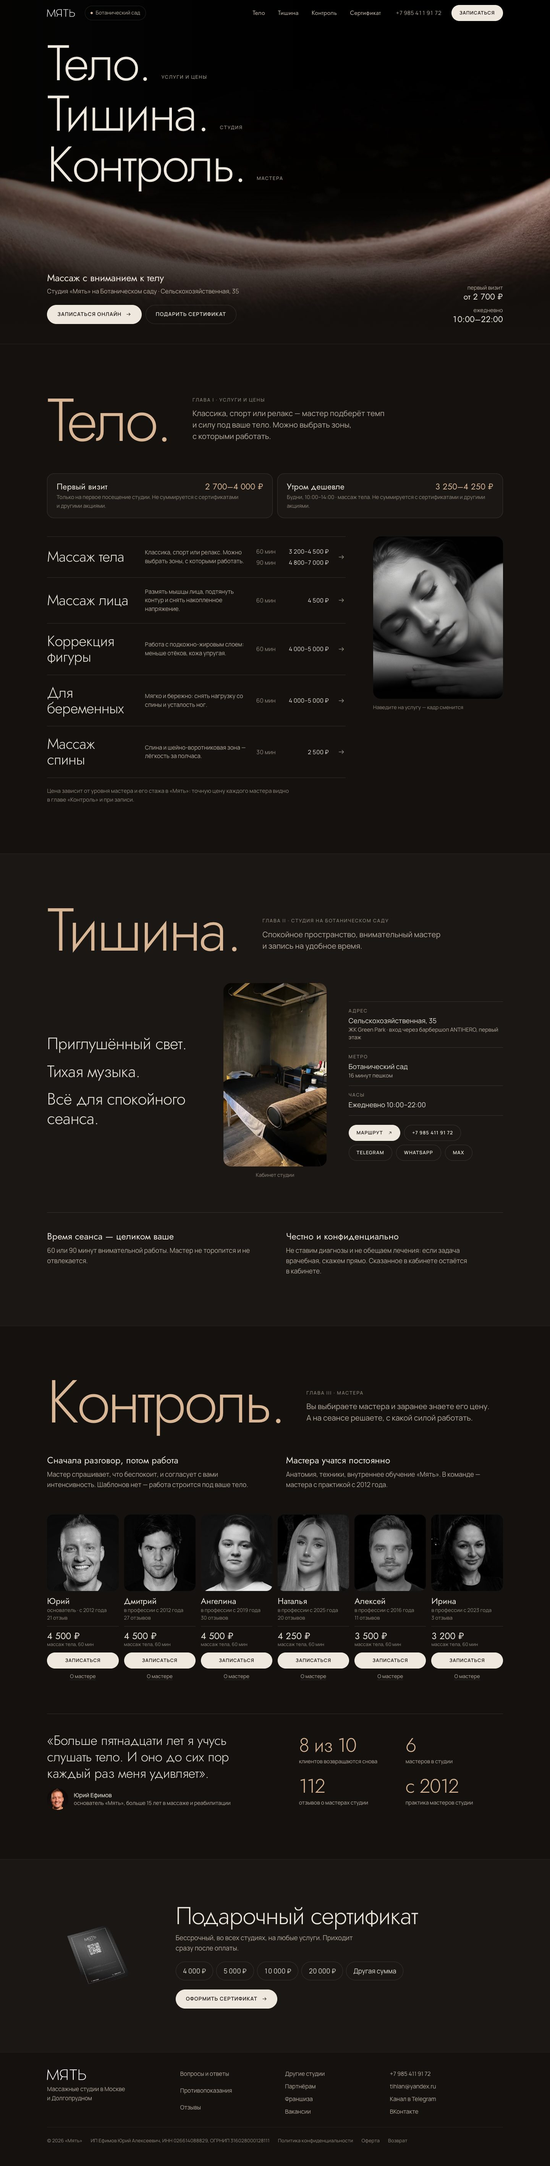
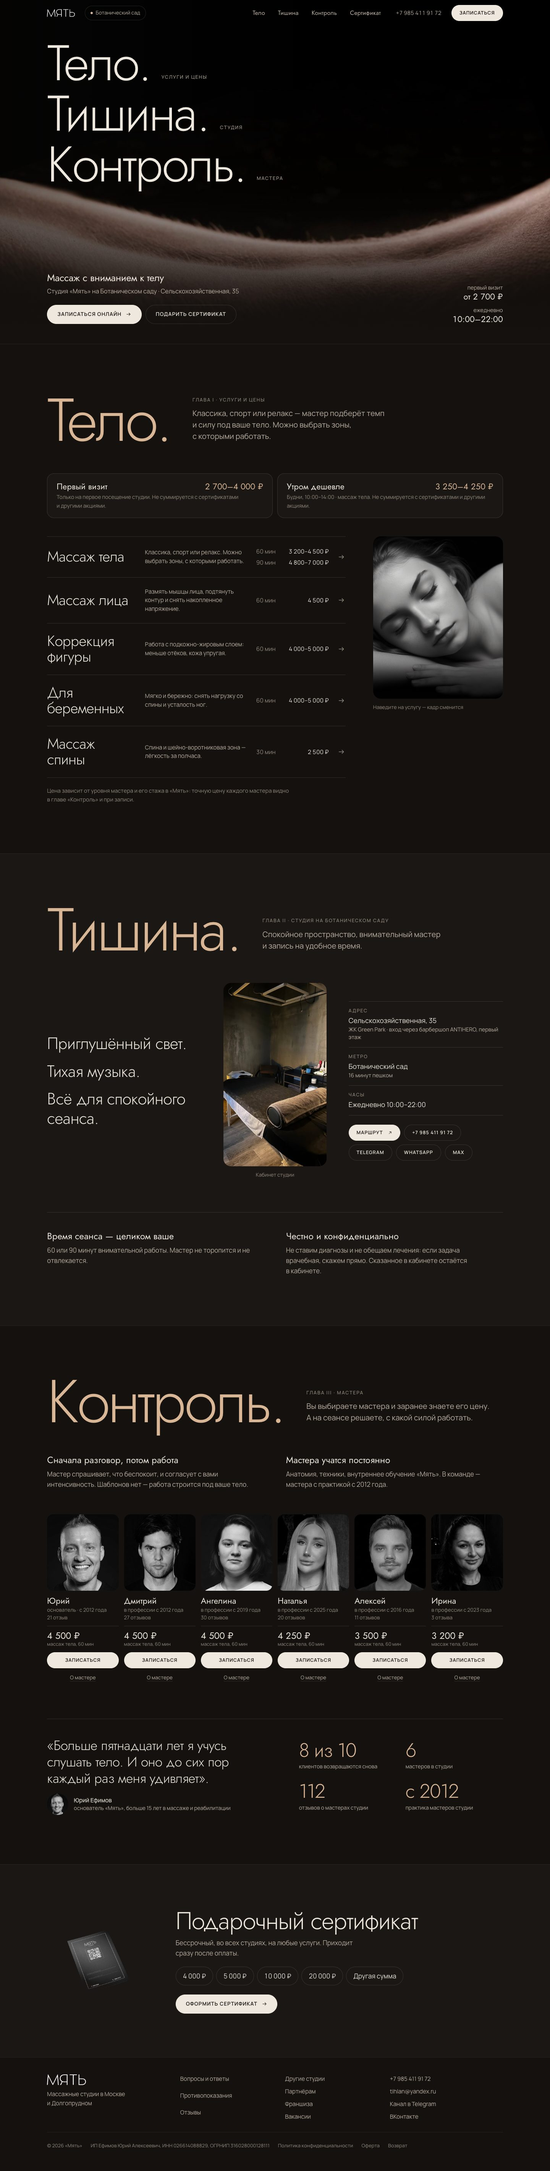
Итог: разбор текущего сайта, страница со сравнением концептов, README

diff --git a/index.html b/index.html
@@ -1,0 +1,133 @@
+<!doctype html>
+<html lang="ru">
+<head>
+<meta charset="utf-8">
+<meta name="viewport" content="width=device-width, initial-scale=1">
+<title>Мять · Ботанический сад — разбор и три концепта</title>
+<meta name="robots" content="noindex">
+<style>
+@font-face{font-family:"Onest";src:url(fonts/onest-latin.woff2) format("woff2");font-weight:100 900;font-display:swap;unicode-range:U+0000-00FF,U+2000-206F,U+2212}
+@font-face{font-family:"Onest";src:url(fonts/onest-latin-ext.woff2) format("woff2");font-weight:100 900;font-display:swap;unicode-range:U+0100-02BA,U+20A0-20AB,U+20AD-20C0}
+@font-face{font-family:"Onest";src:url(fonts/onest-cyrillic.woff2) format("woff2");font-weight:100 900;font-display:swap;unicode-range:U+0301,U+0400-045F,U+0490-0491,U+2116}
+:root{--bg:#F5F4F0;--card:#FDFDFB;--ink:#17191C;--ink-2:#50555B;--line:rgba(23,25,28,.14);--acc:#B4410F}
+*{box-sizing:border-box}
+body{margin:0;background:var(--bg);color:var(--ink);font:400 17px/1.6 "Onest",system-ui,sans-serif;-webkit-font-smoothing:antialiased}
+.wrap{max-width:1180px;margin:0 auto;padding:0 clamp(18px,4vw,48px)}
+header{padding:clamp(36px,6vw,80px) 0 clamp(20px,3vw,36px)}
+.k{font:500 12.5px/1.3 "Onest";letter-spacing:.1em;text-transform:uppercase;color:var(--ink-2)}
+h1{margin:12px 0 16px;font-weight:400;font-size:clamp(2.2rem,5.4vw,4.4rem);line-height:1;letter-spacing:-.04em}
+h2{margin:0 0 18px;font-weight:400;font-size:clamp(1.7rem,3.4vw,2.6rem);line-height:1.05;letter-spacing:-.03em}
+h3{margin:0 0 6px;font-weight:500;font-size:19px;line-height:1.3}
+p{margin:0 0 14px}.lead{max-width:44em;color:var(--ink-2);font-size:clamp(17px,1.5vw,19px)}
+a{color:inherit}
+section{padding:clamp(32px,5vw,64px) 0;border-top:1px solid var(--line)}
+img{display:block;max-width:100%;border-radius:10px;border:1px solid var(--line)}
+.issues{display:grid;grid-template-columns:repeat(2,minmax(0,1fr));gap:26px 44px;margin:0;padding:0;list-style:none;counter-reset:i}
+.issues li{counter-increment:i;padding-top:14px;border-top:1px solid var(--line)}
+.issues li::before{content:counter(i,decimal-leading-zero);display:block;margin-bottom:6px;font-weight:500;font-size:13px;color:var(--acc)}
+.issues p{margin:0;color:var(--ink-2);font-size:15.5px;line-height:1.55}
+.ev{display:grid;grid-template-columns:minmax(0,1.5fr) minmax(0,1.5fr) minmax(0,.62fr) minmax(0,.62fr);gap:16px;align-items:start;margin-top:32px}
+figure{margin:0}figcaption{margin-top:8px;font-size:13.5px;line-height:1.45;color:var(--ink-2)}
+.c{display:grid;grid-template-columns:minmax(0,.9fr) minmax(0,1.5fr) minmax(0,.42fr);gap:clamp(18px,3vw,40px);align-items:start}
+.c+.c{margin-top:clamp(36px,5vw,64px);padding-top:clamp(36px,5vw,64px);border-top:1px solid var(--line)}
+.c .n{font-weight:500;font-size:13px;letter-spacing:.1em;text-transform:uppercase;color:var(--acc)}
+.c h2{margin:8px 0 12px}
+.c p{color:var(--ink-2);font-size:16px}
+.c p b{color:var(--ink);font-weight:500}
+.btn{display:inline-flex;align-items:center;gap:8px;min-height:46px;padding:0 20px;border-radius:8px;background:var(--ink);color:var(--bg);text-decoration:none;font-weight:500;font-size:15.5px}
+.btn:hover{background:var(--acc)}
+.more{display:block;margin-top:12px;font-size:14px;color:var(--ink-2)}
+.rec{background:var(--card);border:1px solid var(--line);border-radius:14px;padding:clamp(20px,3vw,36px)}
+.rec p{max-width:46em}
+ul.plain{margin:0 0 14px;padding-left:1.1em;color:var(--ink-2)}ul.plain li{margin-bottom:6px}
+footer{padding:28px 0 56px;font-size:14px;color:var(--ink-2)}
+@media (max-width:860px){.issues{grid-template-columns:1fr}.ev{grid-template-columns:1fr 1fr}.c{grid-template-columns:1fr 1fr}.c>div{grid-column:1/-1}}
+</style>
+</head>
+<body>
+<header><div class="wrap">
+  <div class="k">myat.studio/?studio=botsad · разбор по принципам Awwwards · 10 ноября 2026</div>
+  <h1>«Мять», Ботанический сад:<br>разбор и три концепта</h1>
+  <p class="lead">Страница студии массажа в ЖК Green Park. Задача страницы одна: человек должен понять, какой массаж ему нужен, к кому идти и сколько это стоит, — и записаться. Запись уходит во внешний виджет YCLIENTS, поэтому всё решается до клика.</p>
+</div></header>
+
+<section><div class="wrap">
+  <h2>Что не так сейчас</h2>
+  <ol class="issues">
+    <li><h3>Цена разорвана на две части</h3><p>В услугах стоят вилки («3 200–4 500 ₽»), а точные цены мастеров — двумя экранами ниже. Причина вилки объяснена мелкой сноской. Главный вопрос посетителя приходится собирать самому.</p></li>
+    <li><h3>Первый экран почти пустой</h3><p>На телефоне верхняя половина экрана — чёрное поле. Заголовок «Массаж с вниманием к телу» подошёл бы любой студии; собственный слоган «Тело. Тишина. Контроль.» спрятан в подвале серым мелким шрифтом.</p></li>
+    <li><h3>Плоская типографика</h3><p>Один шрифт, одно начертание (400) от заголовка до подписи. На телефоне шкала 36 → 28 → 22 → 18 px, а 72 из 78 текстовых блоков набраны 15 px и мельче, половина — серым.</p></li>
+    <li><h3>Один ритм на всю страницу</h3><p>Семь секций подряд устроены одинаково: заголовок слева, сетка карточек, линия. Пять услуг встают как 3 + 2, шесть мастеров как 4 + 2 — с пустыми «хвостами». Чистый чёрный (#000) без единой смены фона на 5 500 px.</p></li>
+    <li><h3>Фото не про эту студию</h3><p>Услуги иллюстрированы глянцевыми лицами моделей; фотографии самой студии на странице студии нет. Картинки услуг 1680 px грузятся в слот 370 px. Портреты мастеров сняты по-разному и обрезаны под высокий формат.</p></li>
+    <li><h3>Телефон: длинно и мелко</h3><p>Страница — 9 100 px, около 11 экранов. Прилипающей кнопки записи нет (в шапке только трубка и меню). 41 ссылка и кнопка ниже 40 px, «Записаться» у мастера — строка высотой 18 px.</p></li>
+    <li><h3>Не хватает сведений, чтобы дойти</h3><p>«Вход через барбершоп ANTIHERO, первый этаж» и «16 минут от метро» написаны только на странице «Студии». В контактах нет ни карты, ни пометки «сейчас открыто».</p></li>
+    <li><h3>Доверие названо, но не показано</h3><p>«112 отзывов» — цифра без единого отзыва на сайте: страница отзывов ведёт наружу. Описания мастеров (образование, подход) тоже остались на отдельной странице.</p></li>
+  </ol>
+  <p style="margin-top:24px;color:var(--ink-2);font-size:15.5px">Что хорошо и стоит сохранить: скорость (≈1,7 МБ, загрузка около 2 с), честный тон текстов, точные цены мастеров, выбор студии, хороший кадр спины на первом экране.</p>
+  <div class="ev">
+    <figure><a href="screenshots/current/ev-services.jpg"><img src="screenshots/current/ev-services.jpg" alt="" loading="lazy"></a><figcaption>Услуги: вилки цен и модельные фото</figcaption></figure>
+    <figure><a href="screenshots/current/ev-masters.jpg"><img src="screenshots/current/ev-masters.jpg" alt="" loading="lazy"></a><figcaption>Мастера: 4 + 2, мелкие ссылки записи</figcaption></figure>
+    <figure><a href="screenshots/current/mobile-top.jpg"><img src="screenshots/current/mobile-top.jpg" alt="" loading="lazy"></a><figcaption>Телефон, первый экран</figcaption></figure>
+    <figure><a href="screenshots/current/ev-mobile-services.jpg"><img src="screenshots/current/ev-mobile-services.jpg" alt="" loading="lazy"></a><figcaption>Телефон, услуги</figcaption></figure>
+  </div>
+  <p class="more">Целиком: <a href="screenshots/current/desktop-full.jpg">десктоп</a> · <a href="screenshots/current/mobile-full.jpg">телефон</a></p>
+</div></section>
+
+<section><div class="wrap">
+  <article class="c">
+    <div>
+      <div class="n">Концепт 1</div>
+      <h2>Сначала разговор</h2>
+      <p><b>Идея.</b> Первый принцип студии — «сначала разговор, потом работа» — становится интерфейсом. Страница начинается с вопроса мастера «Что беспокоит?»; ответ сразу показывает подходящий массаж, длительность и цену. Ниже — мастера с точной ценой каждого, без вилок.</p>
+      <p><b>Кому подойдёт.</b> Новым клиентам, которые не знают, какой массаж выбрать. Лучше всего решает главную проблему страницы.</p>
+      <a class="btn" href="concepts/1-razgovor.html">Открыть прототип →</a>
+      <span class="more">Целиком: <a href="screenshots/concept-1/desktop-full.jpg">десктоп</a> · <a href="screenshots/concept-1/mobile-full.jpg">телефон</a></span>
+    </div>
+    <a href="concepts/1-razgovor.html"><img src="screenshots/concept-1/desktop-top.jpg" alt="Концепт 1, десктоп" loading="lazy"></a>
+    <a href="concepts/1-razgovor.html"><img src="screenshots/concept-1/mobile-top.jpg" alt="Концепт 1, телефон" loading="lazy"></a>
+  </article>
+  <article class="c">
+    <div>
+      <div class="n">Концепт 2</div>
+      <h2>Тело. Тишина. Контроль.</h2>
+      <p><b>Идея.</b> Слоган из подвала становится каркасом: три слова — три главы и они же навигация. «Тело» — услуги списком, «Тишина» — студия и как дойти, «Контроль» — выбор мастера и его цена. Тёмная, но тёплая: цвет взят из кадра на первом экране.</p>
+      <p><b>Кому подойдёт.</b> Если важно сохранить нынешний тёмный образ бренда и просто сделать его сильнее. Самый «имиджевый» вариант.</p>
+      <a class="btn" href="concepts/2-tri-slova.html">Открыть прототип →</a>
+      <span class="more">Целиком: <a href="screenshots/concept-2/desktop-full.jpg">десктоп</a> · <a href="screenshots/concept-2/mobile-full.jpg">телефон</a></span>
+    </div>
+    <a href="concepts/2-tri-slova.html"><img src="screenshots/concept-2/desktop-top.jpg" alt="Концепт 2, десктоп" loading="lazy"></a>
+    <a href="concepts/2-tri-slova.html"><img src="screenshots/concept-2/mobile-top.jpg" alt="Концепт 2, телефон" loading="lazy"></a>
+  </article>
+  <article class="c">
+    <div>
+      <div class="n">Концепт 3</div>
+      <h2>По минутам</h2>
+      <p><b>Идея.</b> Студия продаёт минуты внимания, поэтому всё измерено временем. На первом экране — шкала дня 10:00–22:00 с живым «сейчас», окном «утром дешевле» и сеансом, который можно подвигать. Услуги — прейскурант с полосками длительности, мастера — список с сортировкой по опыту, цене и отзывам.</p>
+      <p><b>Кому подойдёт.</b> Постоянным клиентам и тем, кто сравнивает цены: кратчайший путь к «сколько, когда, к кому».</p>
+      <a class="btn" href="concepts/3-minuty.html">Открыть прототип →</a>
+      <span class="more">Целиком: <a href="screenshots/concept-3/desktop-full.jpg">десктоп</a> · <a href="screenshots/concept-3/mobile-full.jpg">телефон</a></span>
+    </div>
+    <a href="concepts/3-minuty.html"><img src="screenshots/concept-3/desktop-top.jpg" alt="Концепт 3, десктоп" loading="lazy"></a>
+    <a href="concepts/3-minuty.html"><img src="screenshots/concept-3/mobile-top.jpg" alt="Концепт 3, телефон" loading="lazy"></a>
+  </article>
+</div></section>
+
+<section><div class="wrap">
+  <div class="rec">
+    <div class="k">Рекомендация</div>
+    <h2 style="margin-top:10px">Брать концепт 1 и добавить в него две находки из третьего</h2>
+    <p>«Сначала разговор» — единственный вариант, где идея взята из самого продукта и одновременно чинит главный сбой: человек за один экран получает услугу и цену, а в следующем — мастера с точной суммой. Он светлый и тёплый, заметно отличается от типовых тёмных сайтов массажа.</p>
+    <p>Из концепта 3 стоит перенести сортировку мастеров (опытнее / дешевле / больше отзывов) и пометку «сейчас открыто». Если владельцу принципиален тёмный образ — тогда концепт 2, он ближе всего к нынешнему сайту.</p>
+    <h3 style="margin-top:22px">Что нужно от студии, чтобы довести любой вариант</h3>
+    <ul class="plain">
+      <li>Фотографии самой студии: вход, зона ожидания, кабинет. Сейчас на сайте есть только вертикальные кадры с телефона 720×1280 — в прототипах они показаны маленькими, крупнее не выдержат.</li>
+      <li>Два-три настоящих отзыва с разрешением на публикацию — в прототипах отзывов нет, выдумывать их нельзя.</li>
+      <li>Точные цены мастеров на 90 минут и на остальные услуги — на сайте они есть только вилкой.</li>
+      <li>Ссылки YCLIENTS на каждую услугу: известна только одна (массаж тела), остальные кнопки пока ведут в общее меню записи.</li>
+    </ul>
+  </div>
+</div></section>
+
+<footer><div class="wrap">Прототипы — статические HTML, по одному файлу на концепт. Шрифты лежат в <code>fonts/</code>, трекеров нет. Логотип и фотографии подгружаются с myat.studio, поэтому нужен интернет. Кнопки записи ведут в настоящий YCLIENTS студии.</div></footer>
+</body>
+</html>

diff --git a/concepts/2-tri-slova.html b/concepts/2-tri-slova.html
@@ -132,20 +132,19 @@ a:hover>.arr{transform:translateX(5px)}
 .vows--top{margin:0 0 clamp(36px,5vw,64px);padding-top:0;border-top:0}
 .masters{display:grid;grid-template-columns:repeat(6,minmax(0,1fr));gap:14px}
 .m{display:flex;flex-direction:column}
-.m img{width:100%;aspect-ratio:1;object-fit:cover;border-radius:16px;background:var(--bg-2);filter:grayscale(1);transition:filter .6s}
-.m:hover img{filter:none}
+.m img{width:100%;aspect-ratio:1;object-fit:cover;border-radius:16px;background:var(--bg-2);filter:grayscale(1)}
 .m h3{margin:14px 0 2px;font:400 22px/1.15 var(--disp)}
 .m p{margin:0;font-size:13.5px;line-height:1.45;color:var(--tx-3)}
 .m .pr{margin:12px 0 12px;padding-top:12px;border-top:1px solid var(--line);font:400 24px/1.1 var(--disp);font-variant-numeric:tabular-nums;color:var(--tx)}
 .m .pr small{display:block;font:400 12.5px/1.4 var(--sans);color:var(--tx-3)}
 .m .btn{margin-top:auto;width:100%;padding:0 10px}
-.m .more{margin-top:10px;text-align:center;font-size:13.5px;color:var(--tx-2);text-decoration:underline;text-decoration-color:var(--line);text-underline-offset:4px}
+.m .more{margin-top:4px;padding:10px 0;text-align:center;font-size:13.5px;color:var(--tx-2);text-decoration:underline;text-decoration-color:var(--line);text-underline-offset:4px}
 .m .more:hover{color:var(--tx);text-decoration-color:var(--tx)}
 .proof{display:grid;grid-template-columns:minmax(0,1.1fr) minmax(0,1fr);gap:clamp(24px,5vw,80px);align-items:center;margin-top:clamp(40px,6vw,88px);padding-top:clamp(28px,4vw,48px);border-top:1px solid var(--line)}
 .quote{margin:0}
 .quote p{margin:0 0 18px;font:300 clamp(1.5rem,2.5vw,2.2rem)/1.22 var(--disp);letter-spacing:-.015em}
 .quote footer{display:flex;gap:14px;align-items:center;font-size:14px;color:var(--tx-2);line-height:1.4}
-.quote img{width:56px;height:56px;border-radius:50%;object-fit:cover}
+.quote img{width:56px;height:56px;border-radius:50%;object-fit:cover;filter:grayscale(1)}
 .quote b{display:block;color:var(--tx);font-weight:500;font-size:15px}
 .nums{display:grid;grid-template-columns:1fr 1fr;gap:28px 24px}
 .nums b{display:block;font:300 clamp(2.2rem,3.6vw,3.2rem)/1 var(--disp);letter-spacing:-.03em;color:var(--skin);white-space:nowrap}
@@ -197,7 +196,6 @@ a:hover>.arr{transform:translateX(5px)}
   .room{width:min(210px,56vw);margin-inline:auto}
   .vows,.proof{grid-template-columns:minmax(0,1fr)}
   .masters{grid-template-columns:repeat(2,minmax(0,1fr));gap:30px 12px}
-  .m img{filter:none}
   .gift-g{grid-template-columns:minmax(0,1fr)}.gift-g img{width:180px}
   .bar{display:flex;gap:10px;position:fixed;left:0;right:0;bottom:0;z-index:40;padding:12px var(--gut) calc(12px + env(safe-area-inset-bottom));background:rgba(20,17,15,.9);backdrop-filter:blur(14px);-webkit-backdrop-filter:blur(14px);border-top:1px solid var(--line)}
   .bar{transform:translateY(110%);transition:transform .5s var(--ease)}.bar.show{transform:none}

diff --git a/concepts/1-razgovor.html b/concepts/1-razgovor.html
@@ -108,7 +108,7 @@ section{padding:clamp(56px,8vw,120px) 0}
 .masters{display:grid;grid-template-columns:repeat(3,minmax(0,1fr));gap:0;border-top:1px solid var(--line)}
 .m{display:grid;grid-template-columns:96px minmax(0,1fr);grid-template-rows:1fr auto;gap:20px;padding:28px 28px 28px 0;border-bottom:1px solid var(--line)}
 .m:not(:nth-child(3n+1)){padding-left:28px;border-left:1px solid var(--line)}
-.m img{width:96px;height:96px;border-radius:22px;object-fit:cover;background:var(--paper-2)}
+.m img{width:96px;height:96px;border-radius:22px;object-fit:cover;background:var(--paper-2);filter:grayscale(1)}
 .m h3{margin:0;font:400 26px/1.1 var(--serif);letter-spacing:-.02em}
 .m .role{margin:4px 0 10px;font-size:13.5px;color:var(--ink-3)}
 .m .how{margin:0 0 14px;font-size:15px;line-height:1.5;color:var(--ink-2)}
@@ -127,7 +127,7 @@ section{padding:clamp(56px,8vw,120px) 0}
 .quote{margin:0;padding:24px;background:var(--card);border:1px solid var(--line);border-radius:24px}
 .quote p{margin:0 0 18px;font:400 italic 21px/1.35 var(--serif);letter-spacing:-.01em}
 .quote footer{display:flex;gap:14px;align-items:center;font-size:14px;color:var(--ink-2);line-height:1.35}
-.quote img{width:56px;height:56px;border-radius:50%;object-fit:cover}
+.quote img{width:56px;height:56px;border-radius:50%;object-fit:cover;filter:grayscale(1)}
 .quote b{display:block;color:var(--ink);font-weight:500;font-size:15px}
 .steps{list-style:none;margin:0;padding:0;counter-reset:s}
 .steps li{display:grid;grid-template-columns:64px minmax(0,1fr);gap:8px;padding:26px 0;border-top:1px solid var(--line);counter-increment:s}

diff --git a/concepts/3-minuty.html b/concepts/3-minuty.html
@@ -121,7 +121,7 @@ section{padding:clamp(52px,7.5vw,112px) 0}
 .sort button[aria-pressed=true]{background:var(--ink);color:var(--paper);border-color:var(--ink)}
 .ml{list-style:none;margin:0;padding:0;border-top:1px solid var(--ink)}
 .ml li{display:grid;grid-template-columns:64px minmax(0,.8fr) minmax(0,1.5fr) minmax(110px,.8fr) 100px 126px;gap:22px;align-items:center;padding:16px 0;border-bottom:1px solid var(--line)}
-.ml img{width:64px;height:64px;border-radius:8px;object-fit:cover;background:var(--white)}
+.ml img{width:64px;height:64px;border-radius:8px;object-fit:cover;background:var(--white);filter:grayscale(1)}
 .ml h3{margin:0;font:400 22px/1.15 var(--sans);letter-spacing:-.02em}
 .ml .meta{margin-top:5px}
 .ml p{margin:0;font-size:14.5px;line-height:1.45;color:var(--ink-2)}
@@ -144,7 +144,7 @@ section{padding:clamp(52px,7.5vw,112px) 0}
 .board b{display:block;font:500 clamp(1.6rem,2.6vw,2.3rem)/1 var(--mono);letter-spacing:-.05em;white-space:nowrap}
 .board span{display:block;margin-top:8px;font-size:13.5px;line-height:1.35;color:var(--ink-2)}
 .board blockquote{margin:0;display:grid;grid-template-columns:48px minmax(0,1fr);gap:14px;align-items:start}
-.board blockquote img{width:48px;height:48px;border-radius:8px;object-fit:cover}
+.board blockquote img{width:48px;height:48px;border-radius:8px;object-fit:cover;filter:grayscale(1)}
 .board blockquote p{margin:0 0 6px;font:300 17px/1.4 var(--sans)}
 .board cite{font-style:normal;font-size:13px;color:var(--ink-3)}
 

diff --git a/README.md b/README.md
@@ -1,0 +1,52 @@
+# «Мять», Ботанический сад — разбор и три концепта редизайна
+
+Разбор страницы <https://myat.studio/?studio=botsad> по принципам Awwwards и три статических прототипа.
+Открывать с `index.html` — там разбор, скриншоты и ссылки.
+
+## Что не так сейчас
+
+1. **Цена разорвана на две части.** В услугах вилки («3 200–4 500 ₽»), точные цены мастеров — двумя экранами ниже, причина вилки — в мелкой сноске.
+2. **Первый экран почти пустой.** На телефоне верхняя половина — чёрное поле; слоган «Тело. Тишина. Контроль.» спрятан в подвале.
+3. **Плоская типографика.** Один шрифт и одно начертание; на телефоне 72 из 78 текстовых блоков — 15 px и мельче, половина серым.
+4. **Один ритм на всю страницу.** Семь одинаково устроенных секций на чистом чёрном, сетки 3 + 2 и 4 + 2 с пустыми хвостами.
+5. **Фото не про эту студию.** Модельные лица вместо студии; картинки 1680 px в слоте 370 px; портреты мастеров сняты по-разному.
+6. **Телефон: длинно и мелко.** 9 100 px (около 11 экранов), нет прилипающей кнопки записи, 41 ссылка и кнопка ниже 40 px.
+7. **Не хватает сведений, чтобы дойти.** «Вход через барбершоп ANTIHERO» и «16 минут от метро» есть только на странице «Студии».
+8. **Доверие названо, но не показано.** «112 отзывов» без единого отзыва на сайте.
+
+Сохранить: скорость (≈1,7 МБ, около 2 с), тон текстов, точные цены мастеров, выбор студии, кадр первого экрана.
+
+![Текущий сайт, услуги](screenshots/current/ev-services.jpg)
+
+## Концепты
+
+| | Идея | Кому подойдёт |
+|---|---|---|
+| [1 · Сначала разговор](concepts/1-razgovor.html) | Страница начинается с вопроса мастера «Что беспокоит?»; ответ сразу показывает массаж, длительность и цену. Мастера — с точной ценой каждого. | Новым клиентам, которые не знают, что выбрать. |
+| [2 · Тело. Тишина. Контроль.](concepts/2-tri-slova.html) | Слоган становится каркасом: три слова — три главы и навигация. Тёмная, но тёплая. | Если важно сохранить нынешний образ бренда. |
+| [3 · По минутам](concepts/3-minuty.html) | Шкала дня 10:00–22:00 с живым «сейчас» и окном «утром дешевле»; услуги — прейскурант, мастера — список с сортировкой. | Постоянным клиентам и тем, кто сравнивает цены. |
+
+### 1 · Сначала разговор
+![Концепт 1, десктоп](screenshots/concept-1/desktop-top.jpg)
+
+### 2 · Тело. Тишина. Контроль.
+![Концепт 2, десктоп](screenshots/concept-2/desktop-top.jpg)
+
+### 3 · По минутам
+![Концепт 3, десктоп](screenshots/concept-3/desktop-top.jpg)
+
+Скриншоты целиком и мобильные — в `screenshots/concept-N/` (`desktop-top`, `desktop-full`, `mobile-top`, `mobile-full`).
+
+## Рекомендация
+
+Брать **концепт 1** и перенести в него из третьего сортировку мастеров и пометку «сейчас открыто».
+Если принципиален тёмный образ — концепт 2.
+
+Что нужно от студии: фотографии самой студии (сейчас есть только кадры с телефона 720×1280), два-три настоящих отзыва,
+точные цены мастеров на 90 минут и остальные услуги, ссылки YCLIENTS на каждую услугу.
+
+## Техническое
+
+- Один HTML-файл на концепт, свои стили и скрипт внутри. Шрифты (OFL) лежат в `fonts/`, трекеров нет.
+- Логотип и фотографии подгружаются с myat.studio — нужен интернет. Кнопки записи ведут в настоящий YCLIENTS студии.
+- Скриншоты: `node tools/shot.mjs <url> <префикс> <desktop|mobile>` (headless Chrome, без зависимостей).
